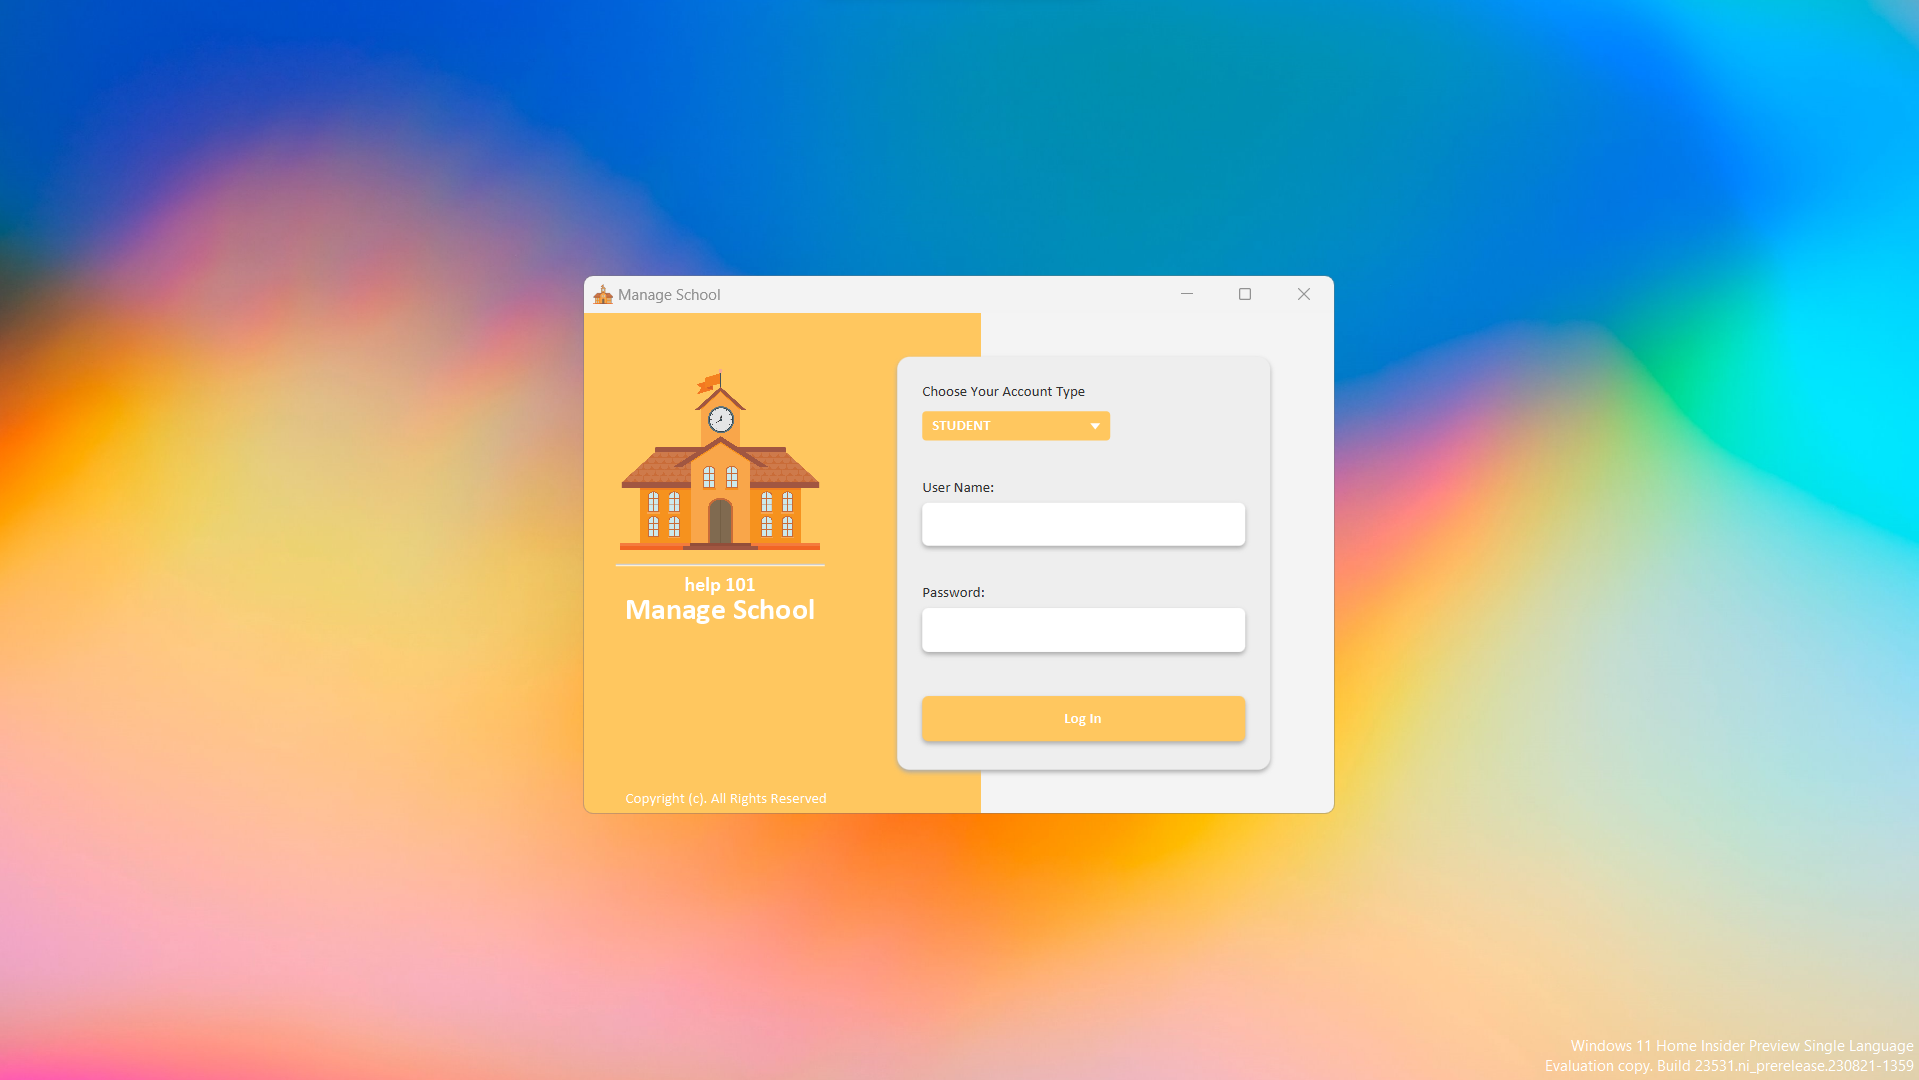
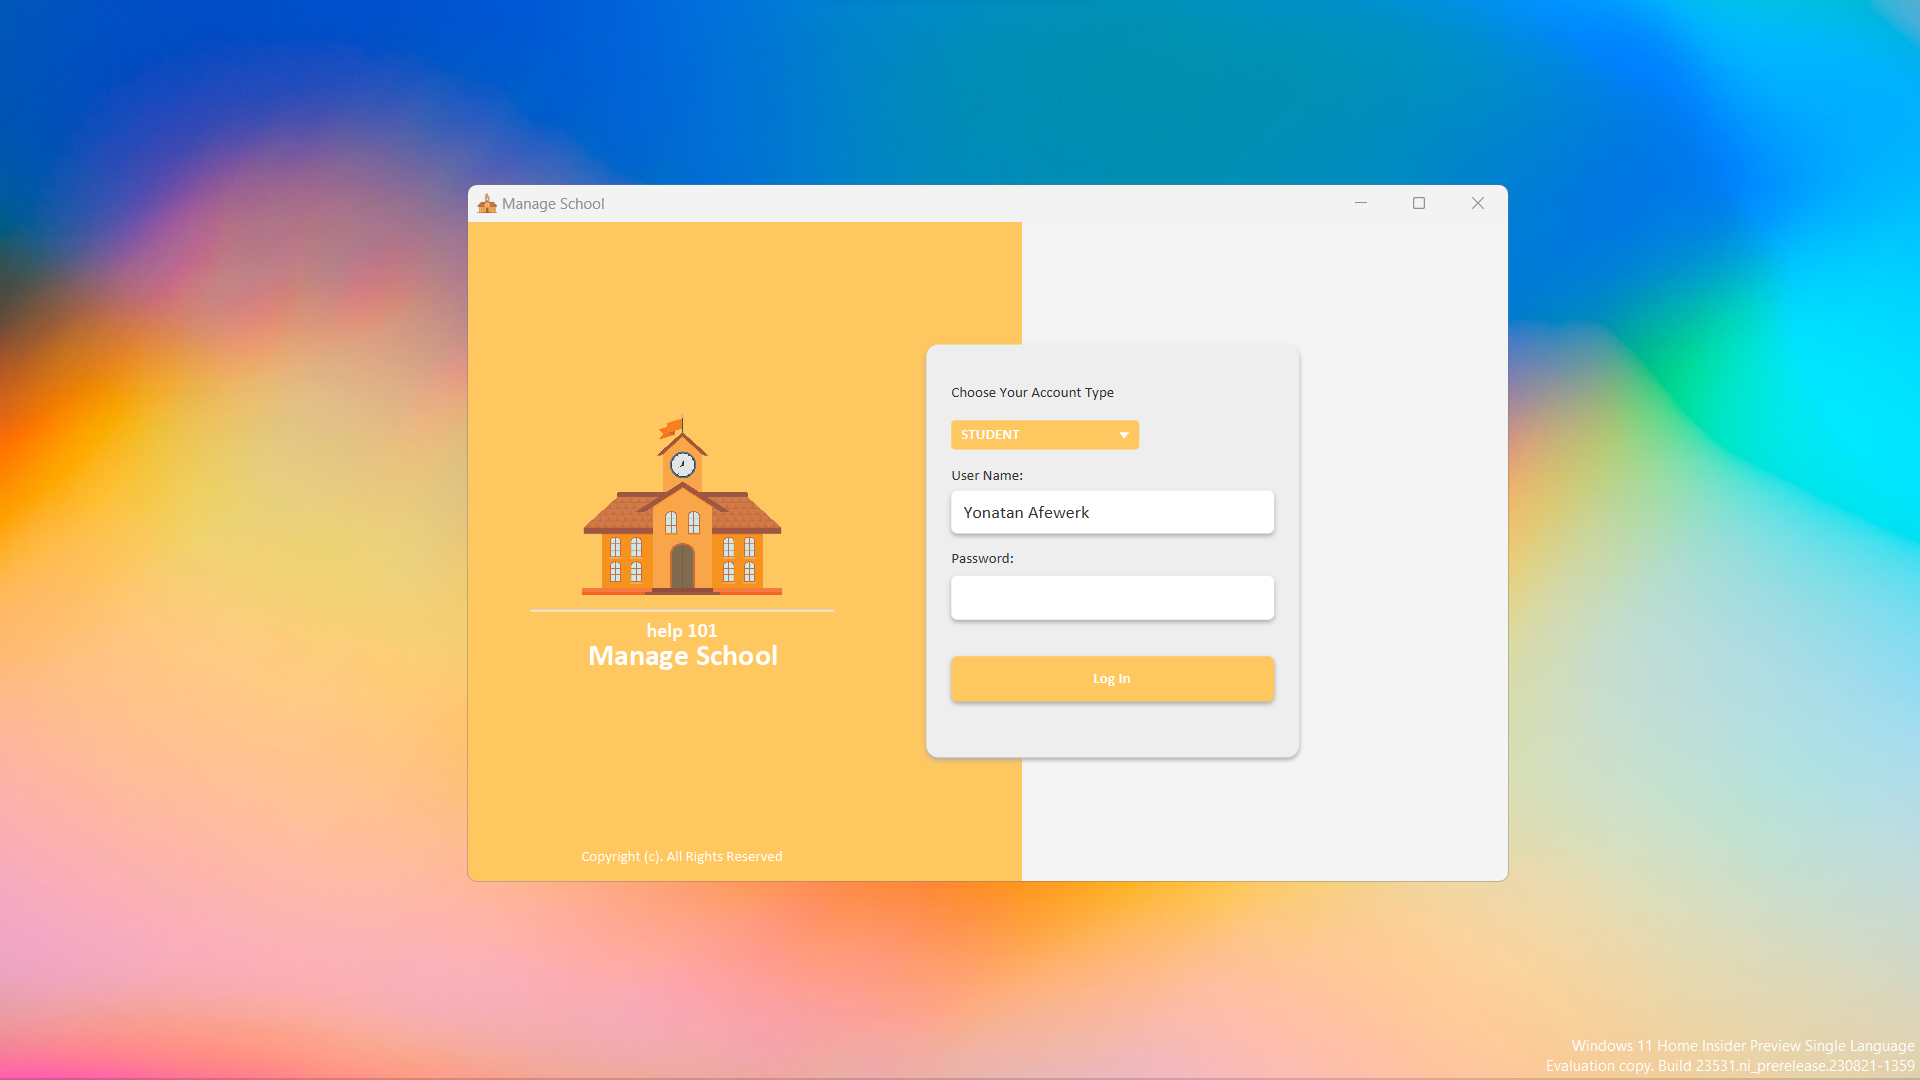
student login bug fixed :)

Changed region(s): [[0.246, 0.1528, 0.7994, 0.825]]

diff --git a/src/main/resources/Styles/login.css b/src/main/resources/Styles/login.css
@@ -88,7 +88,7 @@
 }
 
 .login_form_container Button:hover {
-    -fx-text-fill: #2570e8;
+    -fx-text-fill: #FFC75F;
     -fx-background-color: #FFFFFF;
     -fx-cursor: hand;
     -fx-font-weight: Bold;

diff --git a/src/main/java/com/manageschool/manageschool/Controllers/LoginController.java b/src/main/java/com/manageschool/manageschool/Controllers/LoginController.java
@@ -49,11 +49,13 @@ public class LoginController implements Initializable {
         GetDataForLogin getData = new GetDataForLogin();
 
         if (Model.getInstance().getViewFactory().getLoginAccountType() == AccountType.ADMIN && getData.getVerified(user,psw,"admin")){
-            System.out.println("work!");
+            System.out.println("works!");
             Model.getInstance().getViewFactory().showAdminWindow();
-        } else if (Model.getInstance().getViewFactory().getLoginAccountType() == AccountType.STUDENT && getData.getVerified(user,psw,"admin")) {
-            System.out.println("work!");
+        } else if (Model.getInstance().getViewFactory().getLoginAccountType() == AccountType.STUDENT && getData.getVerified(user,psw,"student")) {
+            System.out.println("works!");
             Model.getInstance().getViewFactory().showStudentWindow();
+        } else {
+            System.out.println("not working!");
         }
     }
 }
